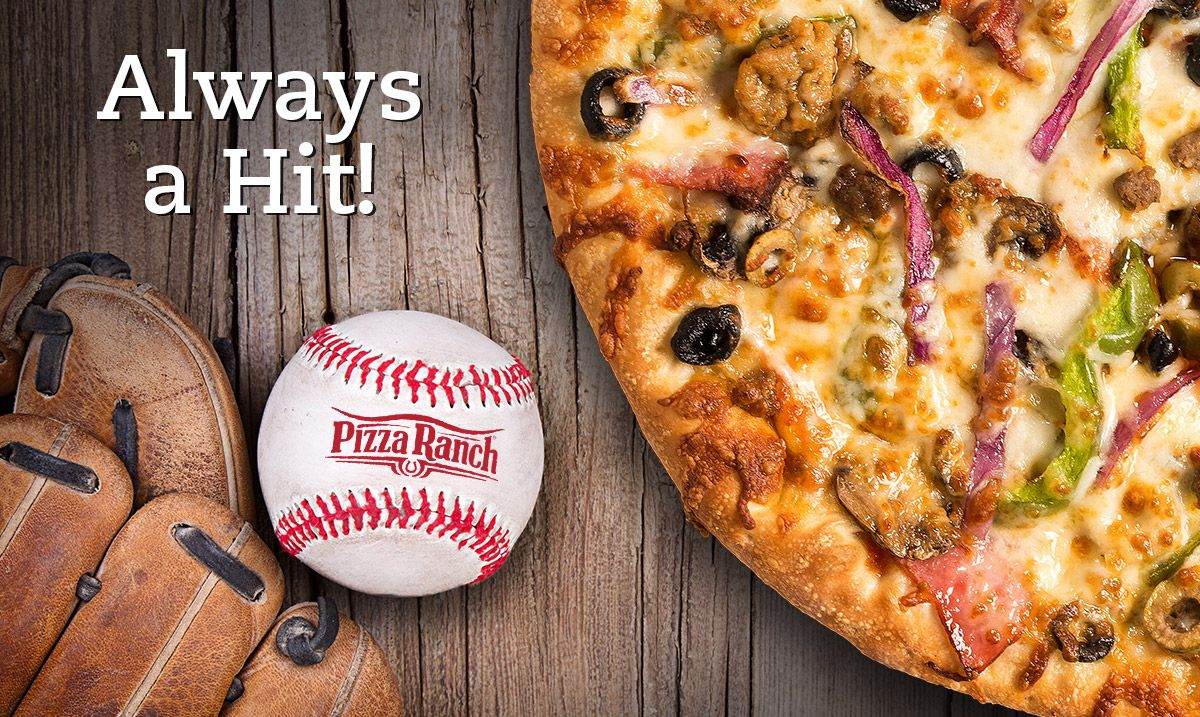
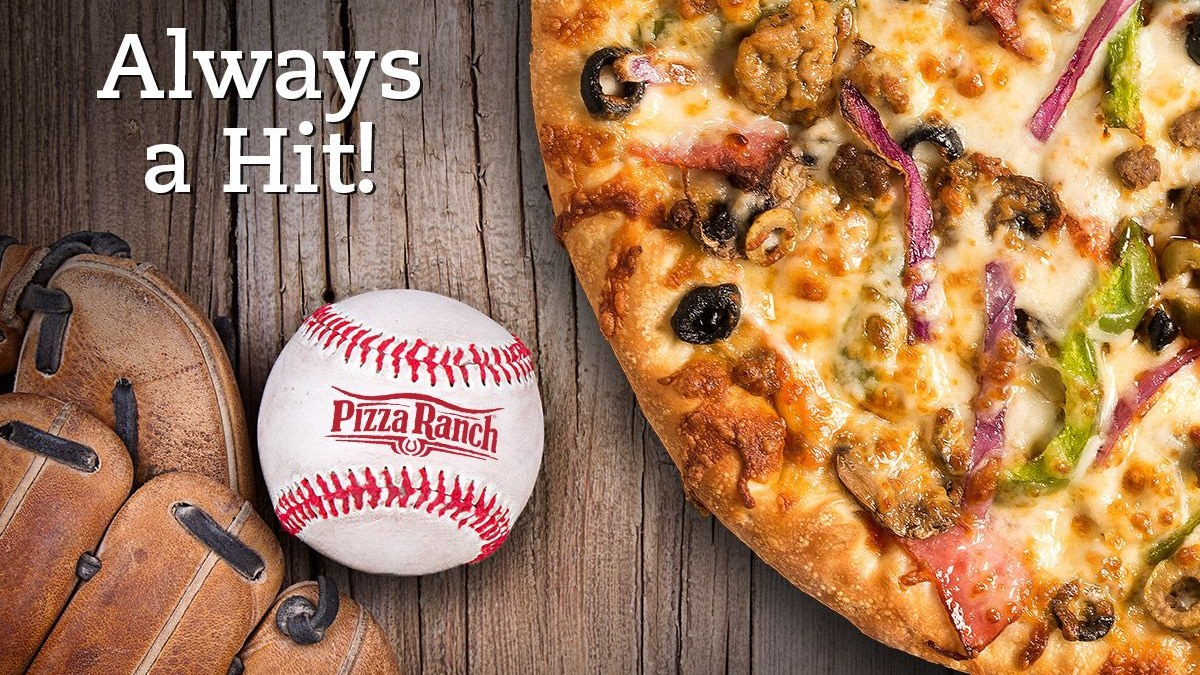
Drop retired ads, crop stills to 16:9, and rotate in the menu.
Remove seven old ads from the pool. Center-crop off-ratio stills so they fill the screen, and show the dine-in menu for 10 seconds in every sixth ad spot without resetting the ad order.

diff --git a/index.html b/index.html
@@ -6,7 +6,9 @@
 html,body{margin:0;padding:0;width:100%;height:100%;background:#000;overflow:hidden;cursor:none}
 #stage{position:absolute;left:0;top:0;width:1920px;height:1080px;background:#000;overflow:hidden;
   -webkit-transform-origin:0 0;transform-origin:0 0}
-#stage img,#stage video{position:absolute;left:0;top:0;width:1920px;height:1080px;background:#000;-o-object-fit:contain;object-fit:contain}
+#stage img,#stage video{position:absolute;left:0;top:0;width:1920px;height:1080px;background:#000}
+#stage img{-o-object-fit:cover;object-fit:cover}
+#stage video{-o-object-fit:contain;object-fit:contain}
 #dbg{position:fixed;left:8px;top:8px;background:#000;color:#0f0;font:16px monospace;padding:6px 10px;z-index:9;display:none;white-space:pre;opacity:.85}
 </style></head><body>
 <div id="stage"></div><div id="dbg"></div>
@@ -19,7 +21,7 @@ html,body{margin:0;padding:0;width:100%;height:100%;background:#000;overflow:hid
   var TEST = q.test || '', SPEED = parseFloat(q.speed) || 1, T0 = new Date().getTime(), testBase = null;
   if (TEST) { var m = TEST.match(/(\d+)-(\d+)-(\d+)T(\d+):(\d+)/); testBase = Date.UTC(+m[1], +m[2] - 1, +m[3], +m[4], +m[5]); }
   if (TEST || q.debug) dbg.style.display = 'block';
-  var sched = null, adIdx = 0, deckPos = 0, lastDeck = '', sinceAd = 0, logArr = [];
+  var sched = null, adIdx = 0, deckPos = 0, lastDeck = '', sinceAd = 0, adSlots = 0, lastFile = '', logArr = [];
   window.__log = logArr;
 
   function fit() {  // scale the 1920x1080 stage to fill any screen, centered
@@ -98,13 +100,20 @@ html,body{margin:0;padding:0;width:100%;height:100%;background:#000;overflow:hid
     if (!pick.deck || !sched.decks[pick.deck]) {      // outside all windows -> blank (or a deck named in "outsideWindows")
       var out = sched.outsideWindows;
       if (out && out !== 'blank' && sched.decks[out]) { pick = { deck: out, why: 'outside windows -> ' + out }; }
-      else { clearStage(); lastDeck = ''; dbg.textContent = 'time: ' + stamp + '\ndeck: (blank)  ' + pick.why; logArr.push('blank'); wait(10, step); return; }
+      else { clearStage(); lastDeck = ''; lastFile = ''; dbg.textContent = 'time: ' + stamp + '\ndeck: (blank)  ' + pick.why; logArr.push('blank'); wait(10, step); return; }
     }
     deck = sched.decks[pick.deck];
-    if (pick.deck !== lastDeck) { deckPos = 0; sinceAd = 0; lastDeck = pick.deck; }
+    if (pick.deck !== lastDeck) { deckPos = 0; sinceAd = 0; lastFile = ''; lastDeck = pick.deck; }
     var adList = deck.ads ? adsToday(sched.ads || [], n.date).concat(adsToday(deck.extraAds || [], n.date)) : null;   // ads that are enabled and inside their start/end window today
-    if (adList && adList.length && sinceAd >= (sched.adEvery || 1)) { item = adList[adIdx++ % adList.length]; kind = 'ad'; sinceAd = 0; }
-    else { item = deck.slides[deckPos++ % deck.slides.length]; sinceAd++; }
+    if (adList && adList.length && sinceAd >= (sched.adEvery || 1)) {
+      var rot = sched.menuInRotation, nxt = deck.slides[deckPos % deck.slides.length], takeMenu = false;
+      adSlots++;   // ad spots keep their cadence; showing the menu does not rewind the ad list
+      if (rot && rot.file && rot.everyNthAd && adSlots % rot.everyNthAd === 0 && lastFile !== rot.file && (!nxt || nxt.file !== rot.file)) takeMenu = true;
+      if (takeMenu) { item = { file: rot.file, seconds: rot.seconds || 10 }; kind = 'menu'; }
+      else { item = adList[adIdx++ % adList.length]; kind = 'ad'; }
+      sinceAd = 0;
+    } else { item = deck.slides[deckPos++ % deck.slides.length]; sinceAd++; }
+    lastFile = item.file;
     var secs = item.seconds || (kind === 'ad' ? (sched.adSeconds || 10) : 10), isVid = isVideo(item.file), auto = isVid && !item.seconds;
     dbg.textContent = 'time: ' + stamp + '\ndeck: ' + pick.deck + '  (' + pick.why + ')\nshowing: ' + kind + ' - ' + item.file;
     logArr.push(pick.deck + '|' + kind + '|' + item.file);
